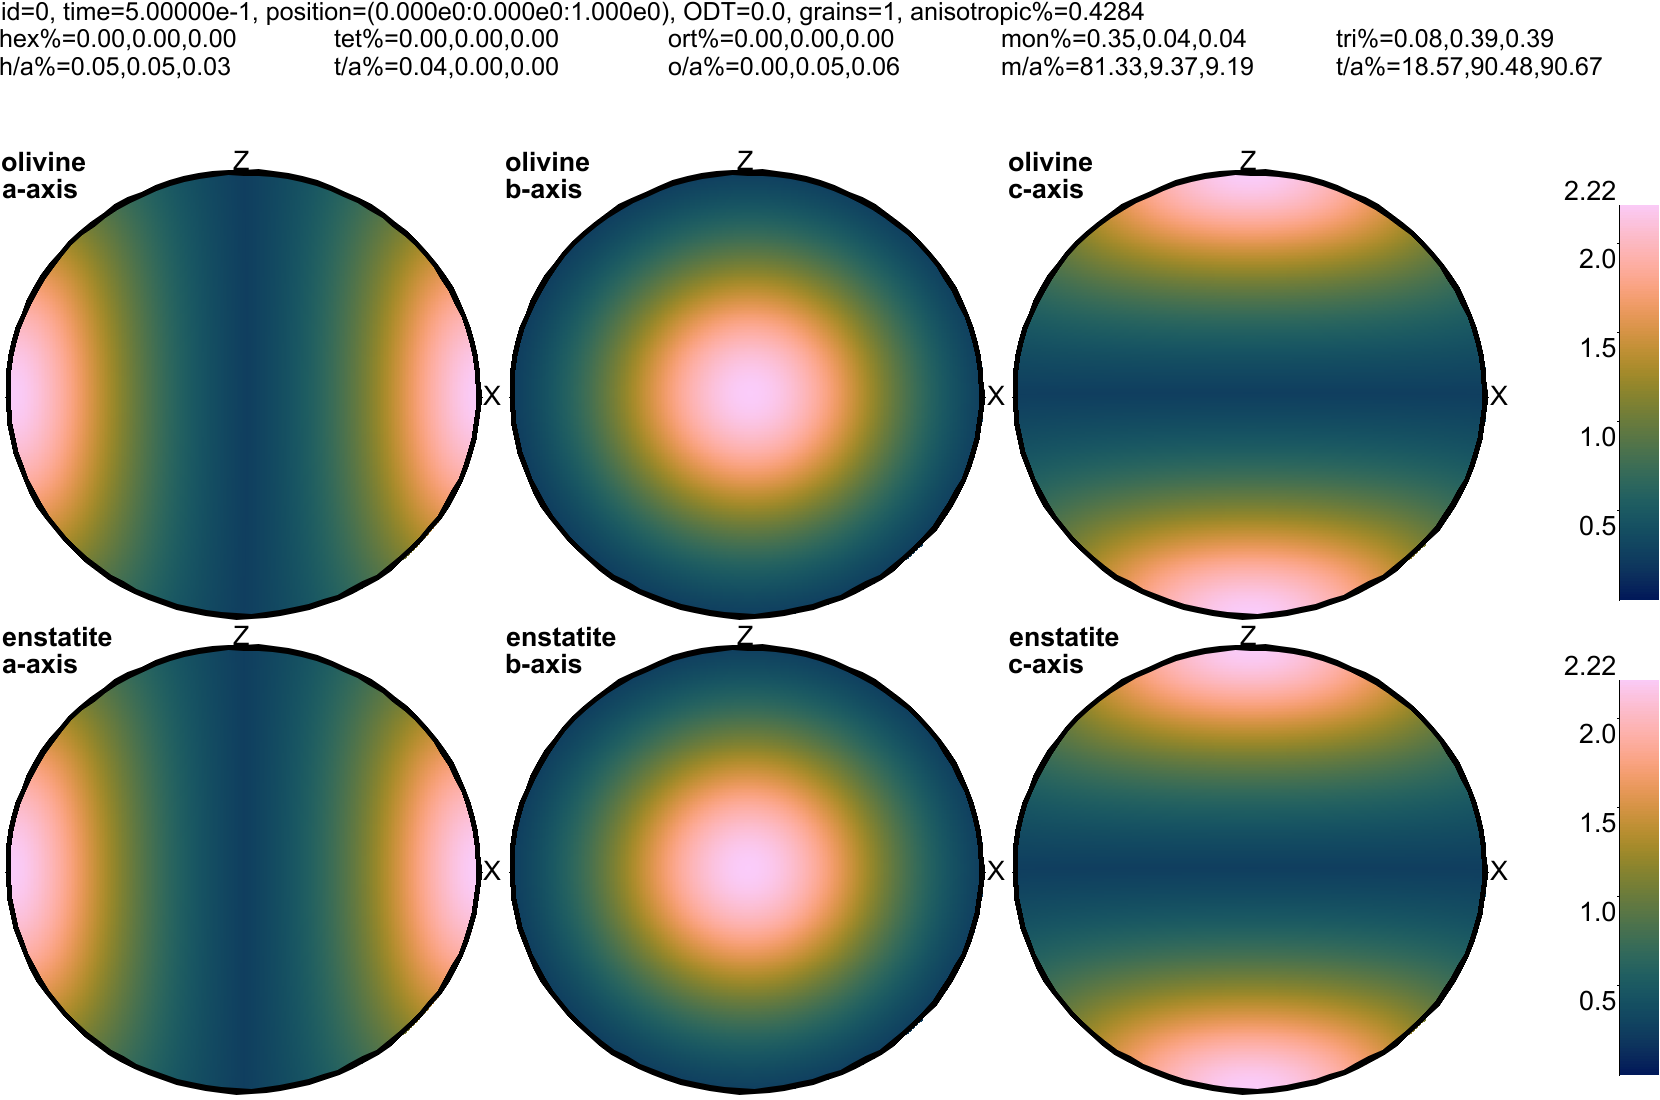
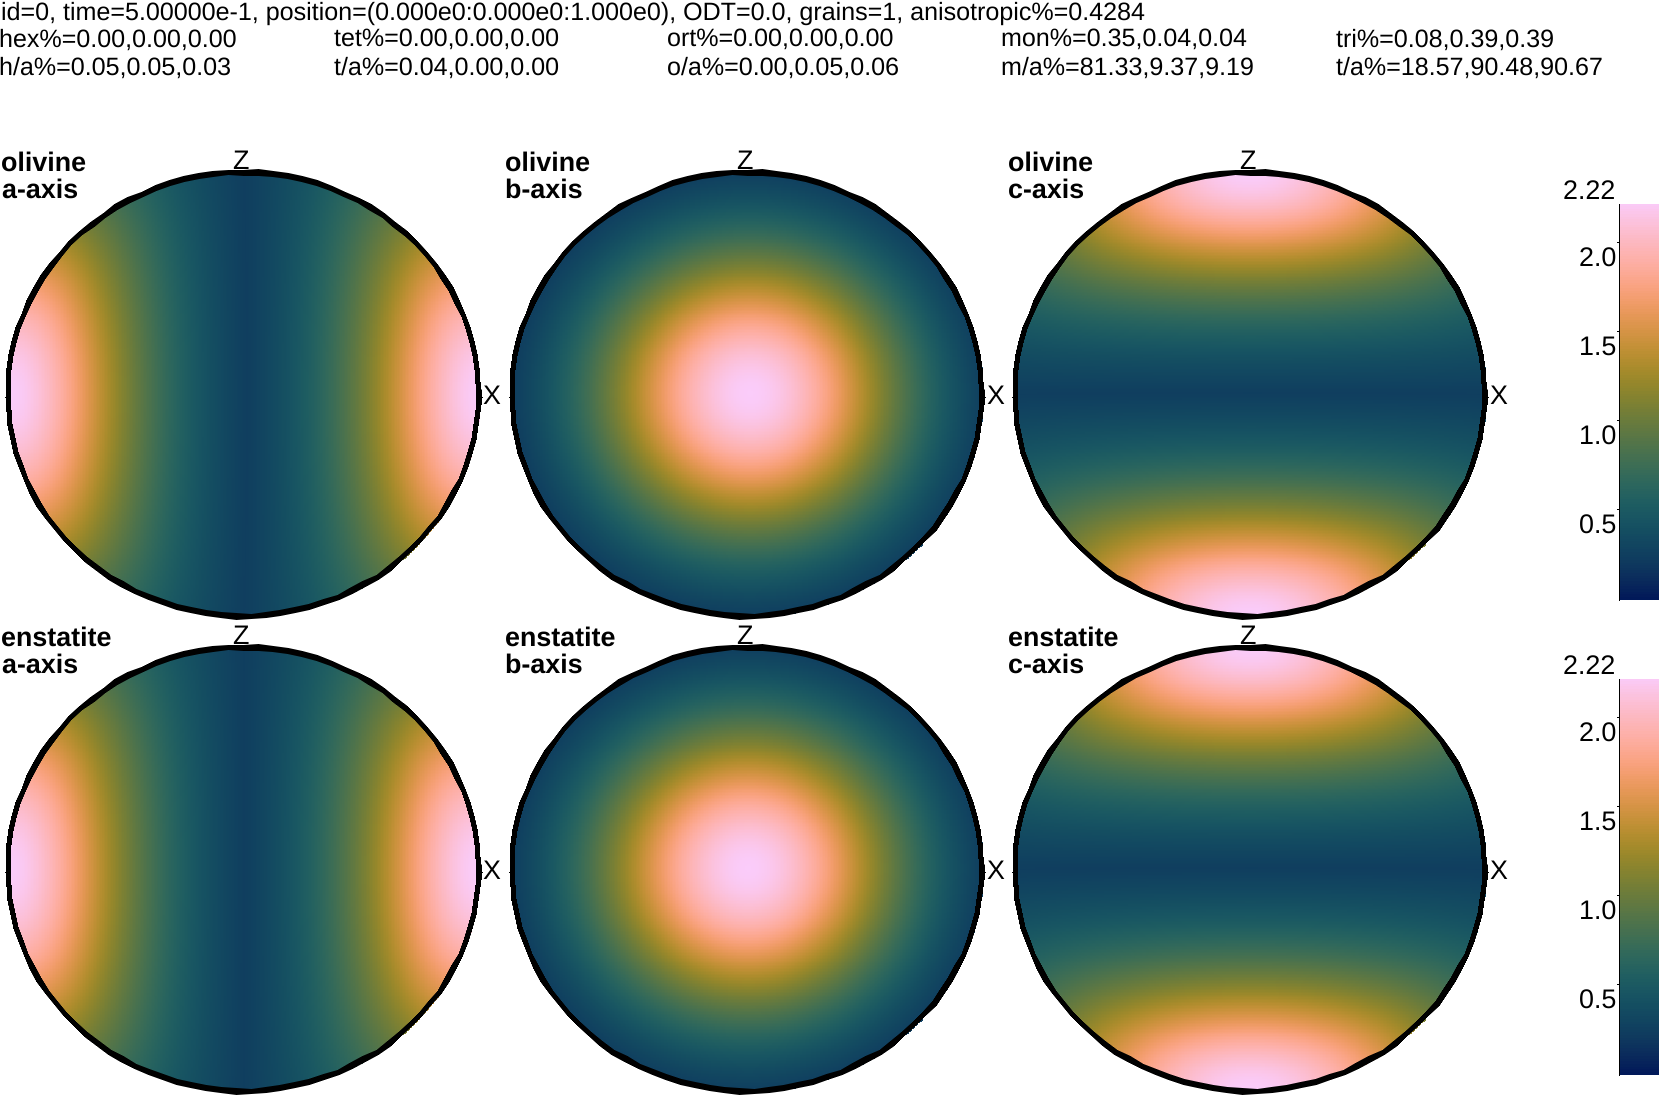
change back to helvetica.

diff --git a/src/pole_figures/make_pole_figures.rs b/src/pole_figures/make_pole_figures.rs
@@ -128,7 +128,7 @@ pub fn make_pole_figures(
     let line_distance = 5.5;
     let top_margin = 0.25;
     let left_margin = 0.5;
-    let font_type = "Arial";
+    let font_type = "Helvetica";
 
     if elastisity_header {
         // Do stuff in header
@@ -387,7 +387,7 @@ pub fn make_pole_figures(
                         } else {
                             format!("{:.2}", max_count_value)
                         },
-                        ("Arial", font_size_figure),
+                        ("Helvetica", font_size_figure),
                     )
                     .build_cartesian_2d(0.0..1.0, 0.0..max_count_value)?;
 
@@ -398,7 +398,7 @@ pub fn make_pole_figures(
                     .y_label_offset(15)
                     .disable_x_mesh()
                     .disable_y_mesh()
-                    .label_style(("Arial", font_size_figure))
+                    .label_style(("Helvetica", font_size_figure))
                     .draw()?;
 
                 let legend_size = 151;
